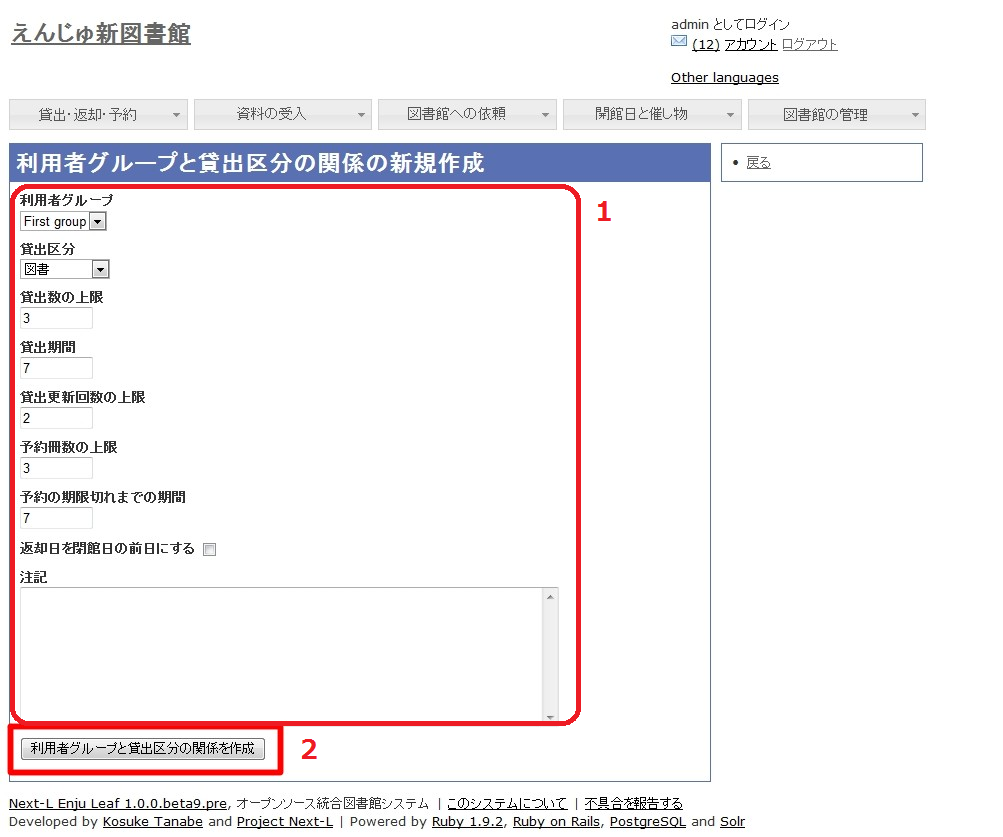
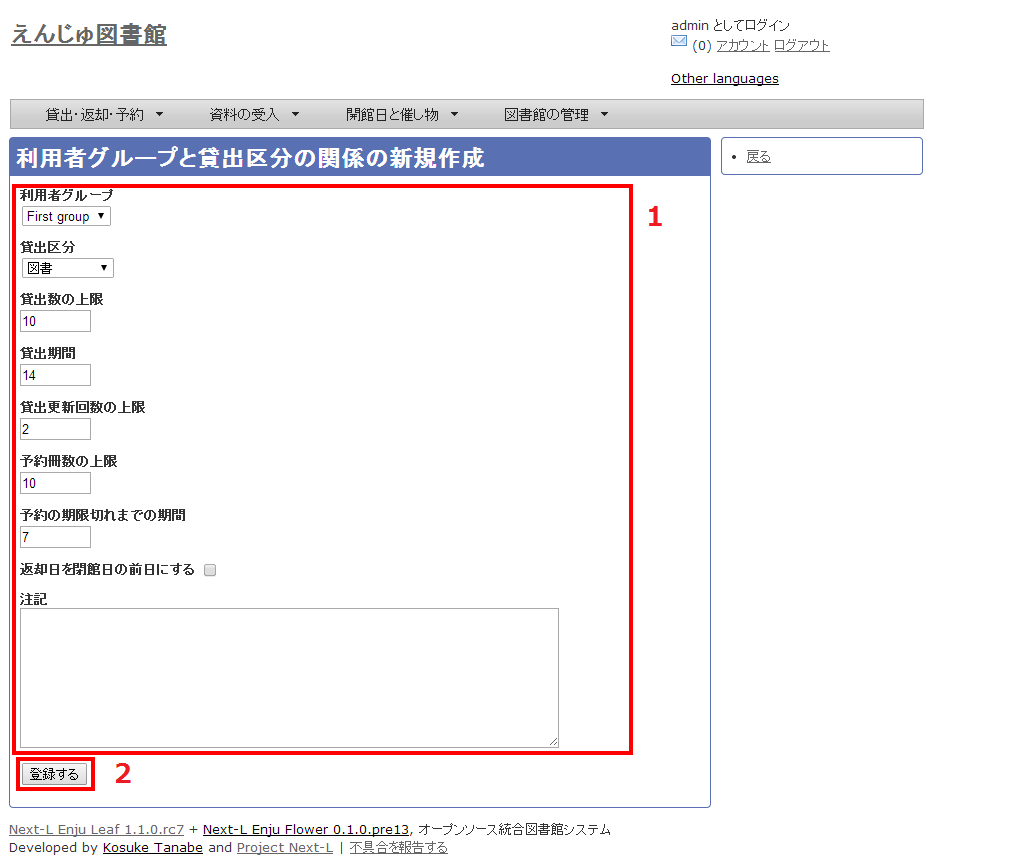
「登録する」になっていないものの修正

Changed region(s): [[0.0, 0.0, 0.9272, 0.994], [0.0, 0.0311, 0.1854, 0.0621]]

diff --git a/_includes/enju_setup/checkout_type.md b/_includes/enju_setup/checkout_type.md
@@ -19,6 +19,6 @@
    <div class="alert alert-info">
    【Memo】入力済みの貸出区分の設定内容を変更する場合は［編集］を，削除する場合は［削除］をクリックします。一覧表示の表示順序を変更するには，表の1列目に表示されている↑または↓をクリックして行を入れ替えます。
    </div>
-4. 設定項目に必要事項を入力、［貸出区分を作成］ボタンをクリックして，設定内容を登録します。  
+4. 設定項目に必要事項を入力、［登録する］ボタンをクリックして，設定内容を登録します。  
    ![貸出区分の作成](assets/images/image_initial_028.png)
 

diff --git a/_includes/enju_setup/user_group_checkout_type.md b/_includes/enju_setup/user_group_checkout_type.md
@@ -28,6 +28,6 @@
    【Memo】入力済みの設定内容を変更する場合は［編集］を，削除する場合は［削除］をクリックします。
    </div>
 4. 設定項目に必要事項を入力し、
-   ［利用者グループと貸出区分の関係を作成］ボタンをクリックして，設定内容を登録します。  
+   ［登録する］ボタンをクリックして，設定内容を登録します。  
    ![利用者グループと貸出区分の関係](assets/images/image_initial_030.png)
 

diff --git a/_includes/enju_setup/shelf.md b/_includes/enju_setup/shelf.md
@@ -22,7 +22,7 @@
    <div class="alert alert-info">
    【Memo】入力済みの本棚の設定内容を変更する場合は，［編集］をクリックします。</div>
 4. 設定項目に必要事項を入力し，
-   ［本棚を作成］ボタンをクリックして，設定内容を登録します。  
+   ［登録する］ボタンをクリックして，設定内容を登録します。  
    ![本棚の作成](assets/images/image_initial_024.png)
 
    <div class="alert alert-info">
